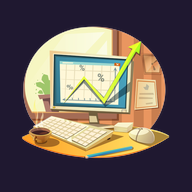
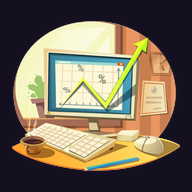
Add files via upload

diff --git a/sw.js b/sw.js
@@ -1,6 +1,6 @@
 // YalnÄ±zca sayfa kabuÄŸunu Ã¶nbelleÄŸe alÄ±r; Ã¶ÄŸrenci verisi (/api) asla Ã¶nbelleÄŸe alÄ±nmaz.
-const SURUM = 'filo-v6';
-const KABUK = ['./', 'index.html', 'stil.css', 'ayar.js', 'moduller.js', 'uygulama.js', 'manifest.webmanifest', 'ikon-192.png'];
+const SURUM = 'filo-v7';
+const KABUK = ['./', 'index.html', 'stil.css', 'ayar.js', 'moduller.js', 'uygulama.js', 'manifest.webmanifest', 'ikon-192.png', 'favicon.ico', 'apple-touch-icon.png'];
 
 self.addEventListener('install', e => {
   e.waitUntil(caches.open(SURUM).then(c => c.addAll(KABUK)).then(() => self.skipWaiting()));

diff --git a/index.html b/index.html
@@ -10,8 +10,9 @@
 <meta name="apple-mobile-web-app-status-bar-style" content="black-translucent">
 <meta name="apple-mobile-web-app-title" content="Filo">
 <link rel="manifest" href="manifest.webmanifest">
-<link rel="icon" href="ikon-192.png">
-<link rel="apple-touch-icon" href="ikon-192.png">
+<link rel="icon" href="favicon.ico" sizes="any">
+<link rel="icon" type="image/png" sizes="32x32" href="favicon-32.png">
+<link rel="apple-touch-icon" href="apple-touch-icon.png">
 <link rel="stylesheet" href="stil.css">
 <title>Filo Muhasebe</title>
 </head>
